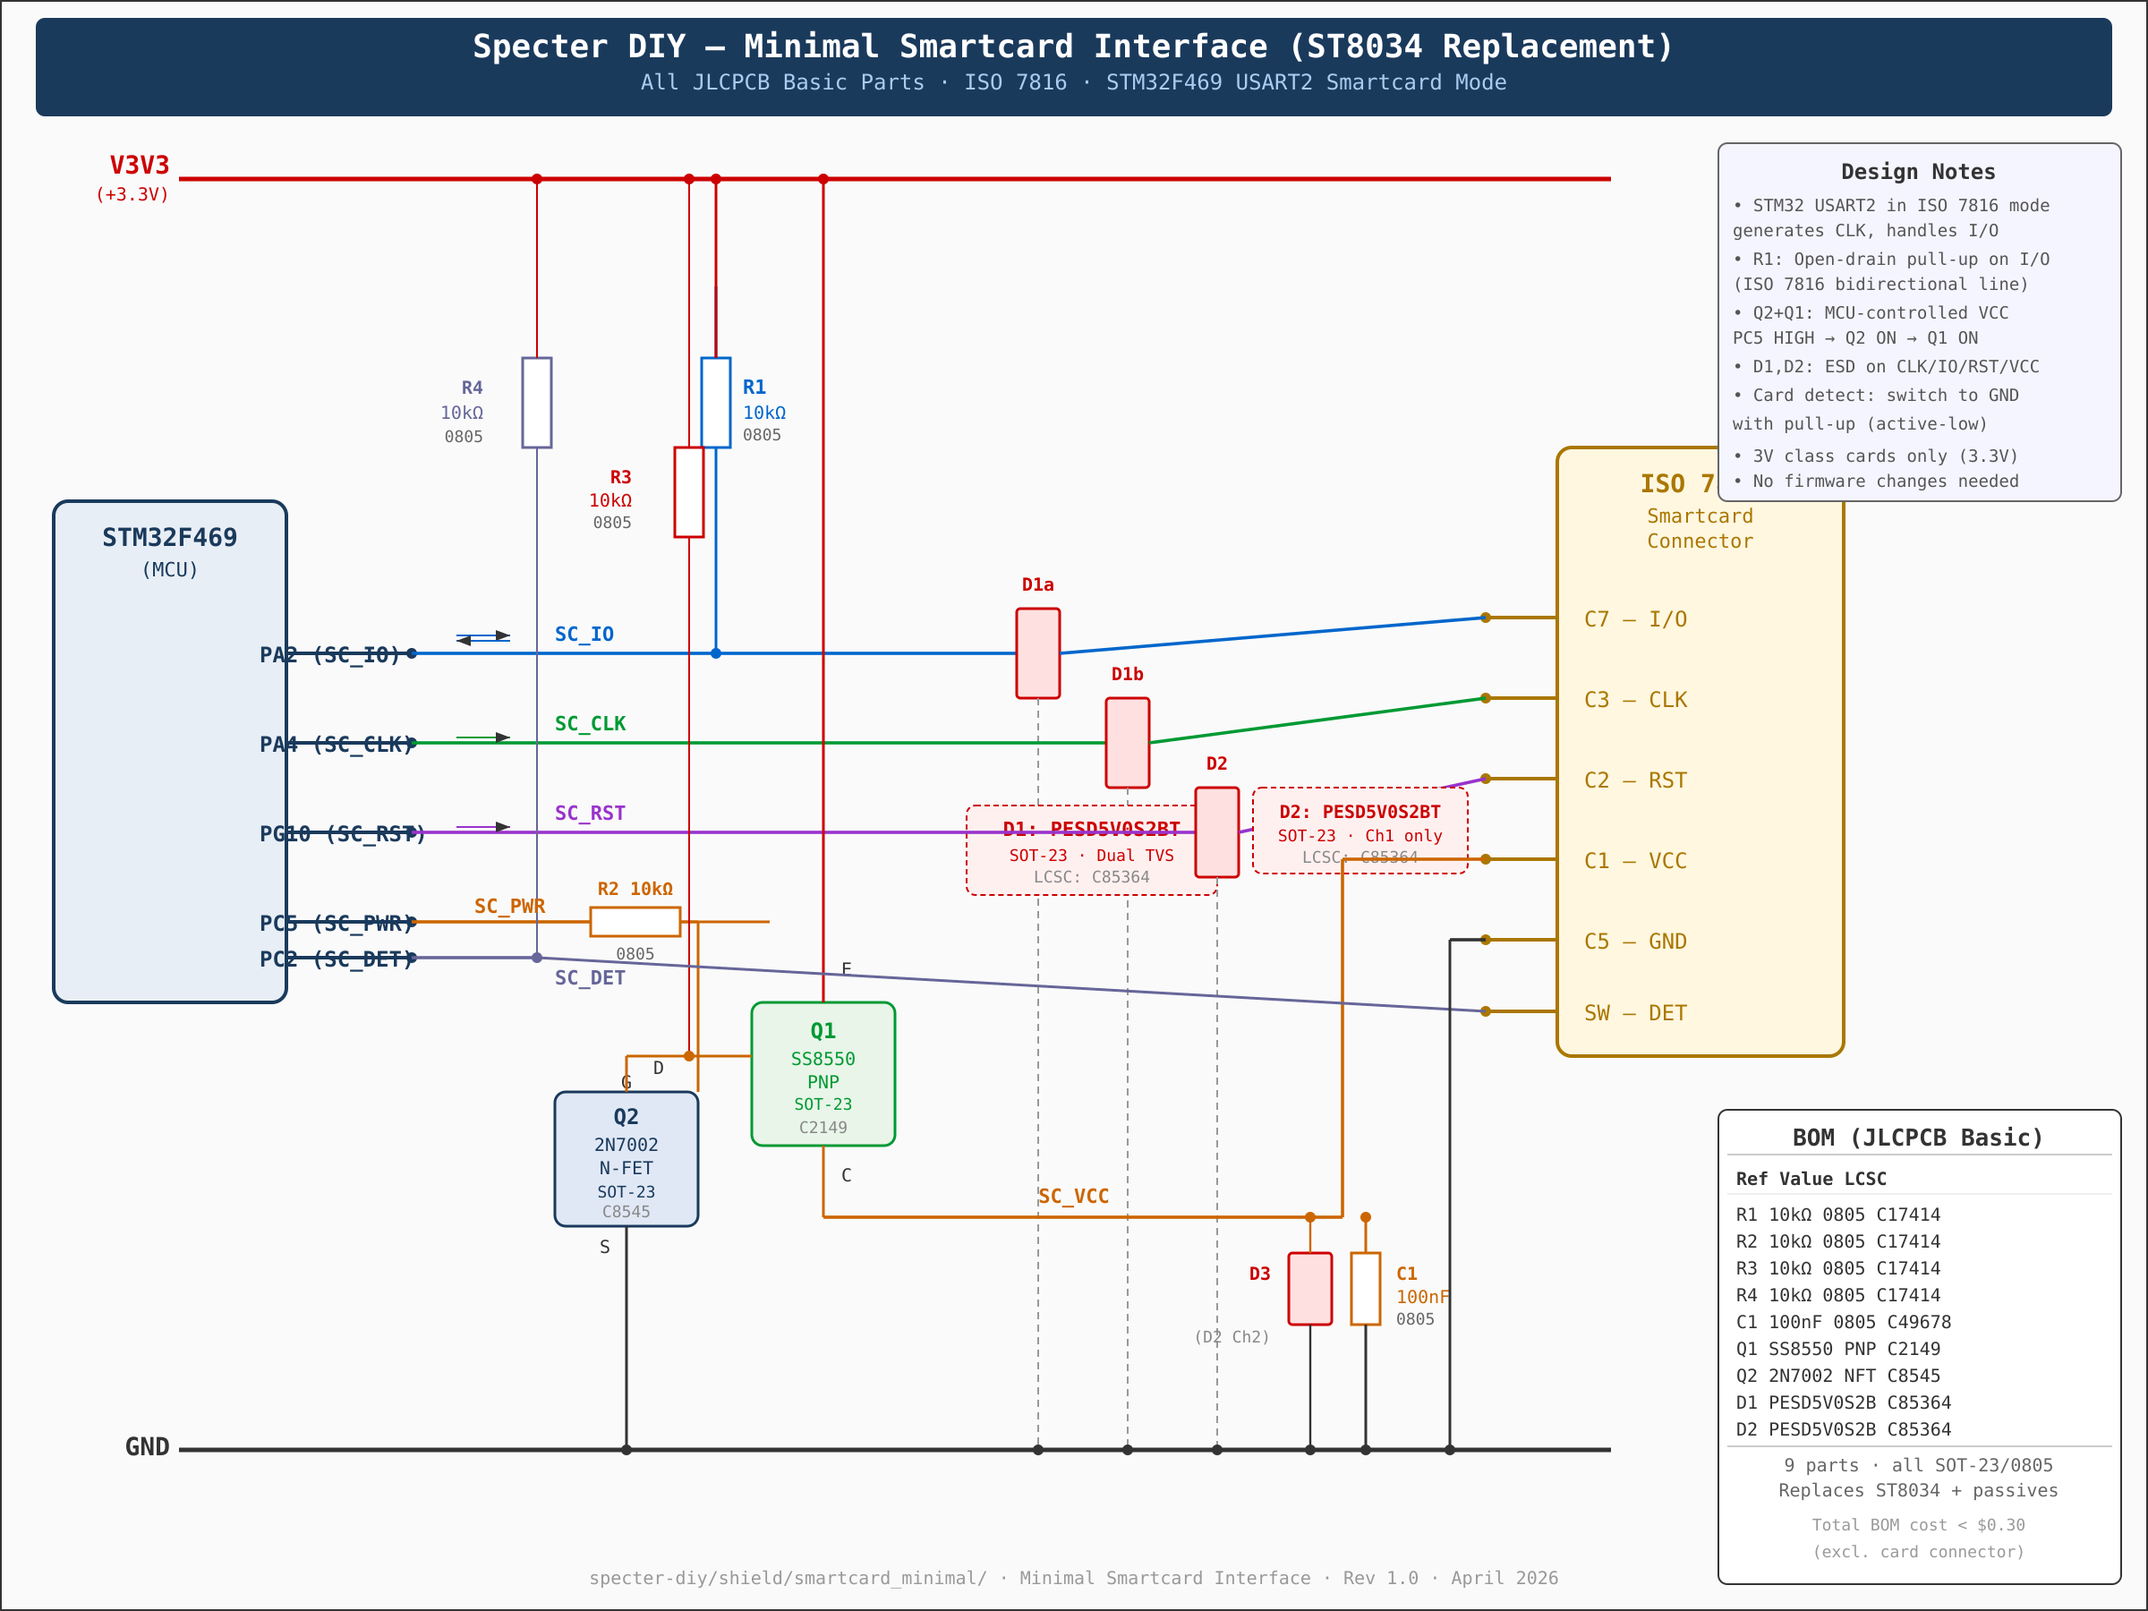
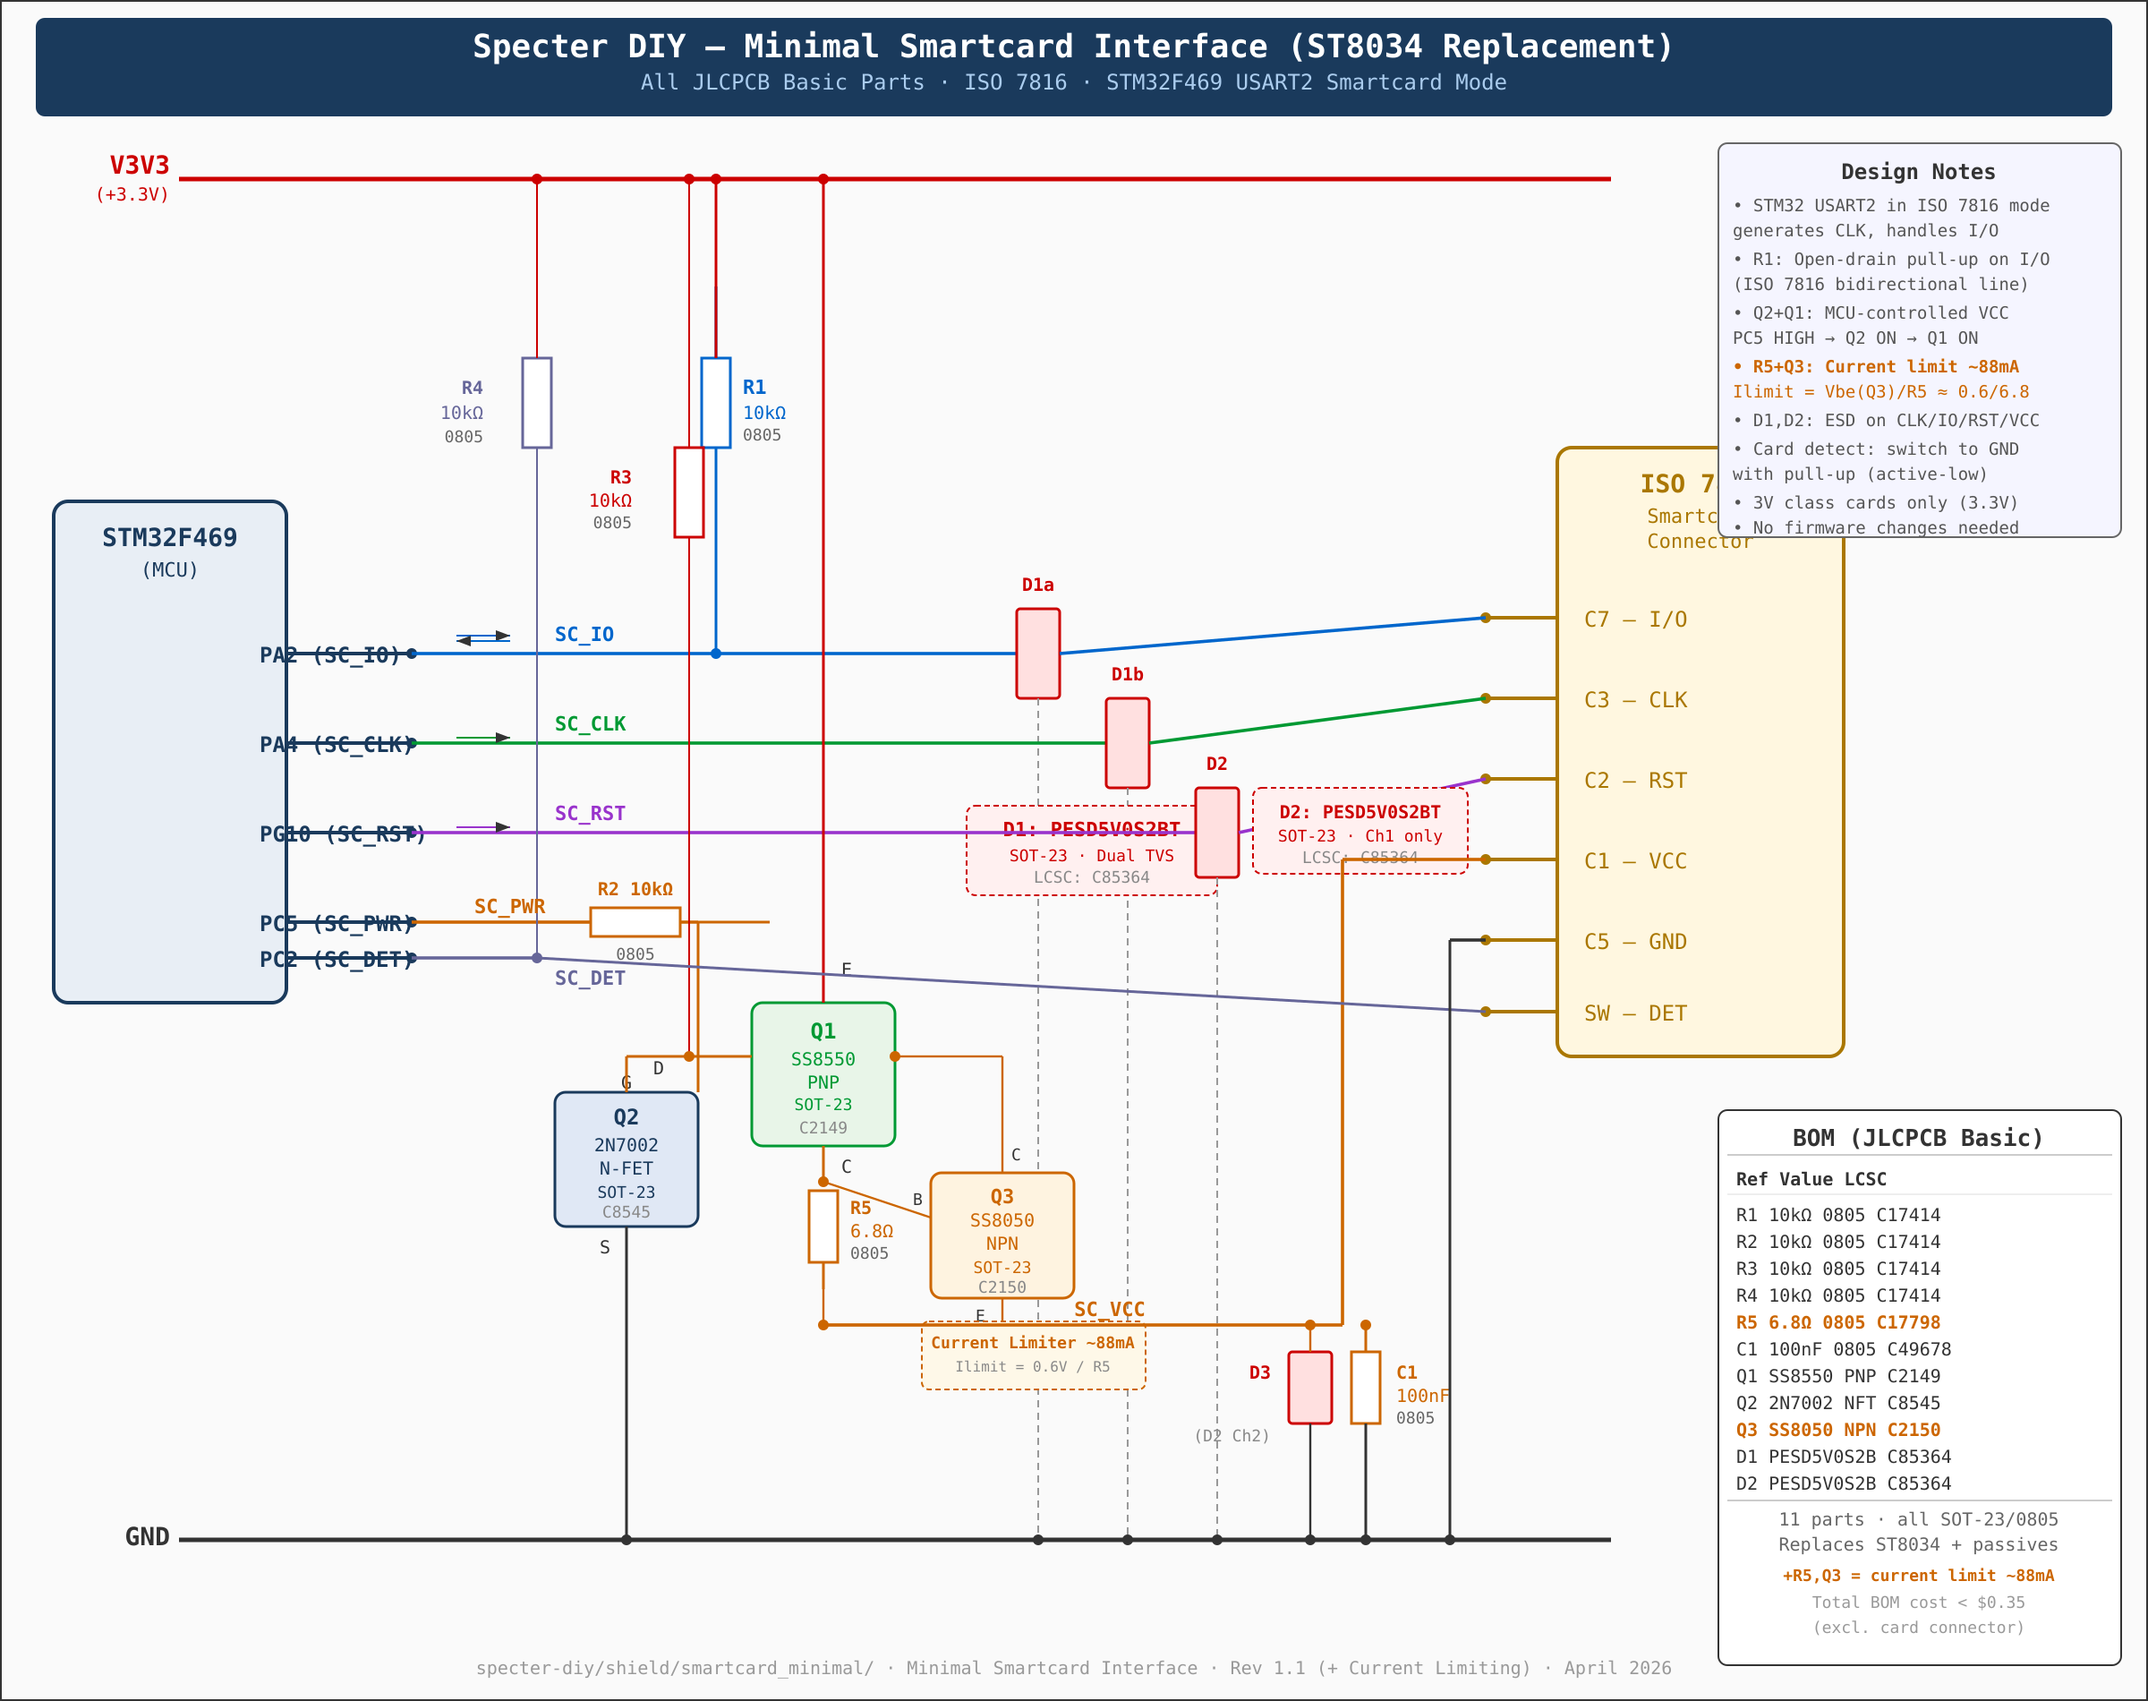
Add current limiting (R5 6.8Ω + Q3 SS8050 NPN) to smartcard VCC
Classic two-transistor current limiter using JLCPCB basic parts:
- R5 (6.8Ω, C17798): sense resistor, sets Ilimit = Vbe/R ≈ 88mA
- Q3 (SS8050 NPN, C2150): shunts Q1 base drive on overcurrent

Matches ISO 7816 Class C 80mA max. Total BOM now 11 parts, < $0.35.
Updated SVG schematic, PNG rendering, and full documentation.

Agent-Logs-Url: https://github.com/3rdIteration/specter-diy/sessions/0c7125b9-5b82-4512-bdc6-2535f76d94ef

diff --git a/shield/smartcard_minimal/README.md b/shield/smartcard_minimal/README.md
@@ -55,14 +55,18 @@ suitable for the smartcard signalling speeds without affecting timing.
 ### Power Switch (VCC Control)
 
 The ST8034's main active function was controlling card VCC. We replace it with a
-simple two-transistor high-side switch:
+two-transistor high-side switch plus a discrete current limiter:
 
 ```
 PC5 (HIGH to enable) → R2 (10kΩ) → Q2 gate (2N7002 N-FET)
                                        │
-Q2 drain ──────────────────────────── Q1 base (SS8550 PNP)
-                                       │
-Q1 emitter ← V3V3                     Q1 collector → SC_VCC → Card C1
+Q2 drain ──────────────────────────── Q1 base (SS8550 PNP) ←── Q3 collector
+                                       │                         │
+Q1 emitter ← V3V3                     Q1 collector               Q3 (SS8050 NPN)
+                                       │                         │
+                                    R5 (6.8Ω sense)           Q3 base ← top of R5
+                                       │                      Q3 emitter → bottom of R5
+                                    SC_VCC → Card C1
                                        │
 R3 (10kΩ) pulls Q1 base to V3V3      C1 (100nF) decouples SC_VCC
 (keeps Q1 OFF when Q2 is OFF)
@@ -70,11 +74,45 @@ R3 (10kΩ) pulls Q1 base to V3V3      C1 (100nF) decouples SC_VCC
 
 **Operation:**
 1. **MCU sets PC5 HIGH** → Q2 (N-FET) turns ON → Q2 drain pulls Q1 base to GND
-2. Q1 (PNP) turns ON → V3V3 flows to SC_VCC → Card is powered
+2. Q1 (PNP) turns ON → V3V3 flows through R5 to SC_VCC → Card is powered
 3. **MCU sets PC5 LOW** → Q2 OFF → R3 pulls Q1 base back to V3V3 → Q1 OFF → Card unpowered
 
 This gives the firmware full control over card activation/deactivation sequencing,
 exactly as it had with the ST8034.
+
+### Current Limiting (R5 + Q3)
+
+A classic two-transistor current limiter protects the card VCC line:
+
+- **R5 (6.8Ω)** is a sense resistor in series between Q1's collector and SC_VCC.
+  As current flows through R5, it develops a voltage drop across it.
+- **Q3 (SS8050 NPN)** has its base connected to the Q1-collector side (top) of
+  R5 and its emitter connected to the SC_VCC side (bottom) of R5. Its collector
+  connects to Q1's base.
+
+**How it works:**
+- When card current is below the limit, the voltage across R5 is less than
+  Q3's Vbe (~0.6V), so Q3 is OFF and has no effect.
+- When card current exceeds the limit, the voltage across R5 exceeds 0.6V,
+  turning Q3 ON. Q3's collector pulls Q1's base toward SC_VCC, reducing Q1's
+  base drive and throttling the current.
+- The circuit self-regulates at the threshold: **I_limit = Vbe(Q3) / R5 ≈
+  0.6V / 6.8Ω ≈ 88mA**
+
+This is well within the ISO 7816 Class C maximum of 80mA (with a small margin
+for Vbe variation). The typical operating current for JavaCards is 30–60mA,
+well below this limit. In a short-circuit condition, the current is hard-clamped
+to ~88mA, protecting both the card and the 3.3V supply rail.
+
+**Tuning:** To adjust the current limit, change R5:
+| R5 Value | Current Limit | Notes |
+|----------|--------------|-------|
+| 4.7Ω     | ~128mA       | More headroom, less protection |
+| 6.8Ω     | ~88mA        | **Default** — matches ISO 7816 Class C |
+| 10Ω      | ~60mA        | Tighter limit, may be too low for some cards |
+| 12Ω      | ~50mA        | Very conservative |
+
+All of these are JLCPCB basic 0805 resistors.
 
 ### Card Detection
 
@@ -92,15 +130,17 @@ All components are from the JLCPCB Basic Parts library — no extended part fees
 | R2  | Resistor  | 10kΩ  | 0805    | C17414 | Q2 gate resistor |
 | R3  | Resistor  | 10kΩ  | 0805    | C17414 | Q1 base pull-up (keeps VCC off at startup) |
 | R4  | Resistor  | 10kΩ  | 0805    | C17414 | Card detect pull-up |
+| R5  | Resistor  | 6.8Ω  | 0805    | C17798 | Current sense resistor (sets ~88mA limit) |
 | C1  | Capacitor | 100nF | 0805    | C49678 | SC_VCC decoupling |
 | Q1  | PNP BJT   | SS8550 | SOT-23 | C2149  | High-side VCC switch |
 | Q2  | N-FET     | 2N7002 | SOT-23 | C8545  | Inverts SC_PWR to drive Q1 |
+| Q3  | NPN BJT   | SS8050 | SOT-23 | C2150  | Current sense — shunts Q1 base on overcurrent |
 | D1  | Dual TVS  | PESD5V0S2BT | SOT-23 | C85364 | ESD on SC_IO + SC_CLK |
 | D2  | Dual TVS  | PESD5V0S2BT | SOT-23 | C85364 | ESD on SC_RST + SC_VCC |
 
-**Total: 9 components (4× 0805, 2× SOT-23 transistors, 2× SOT-23 TVS, 1× 0805 cap)**
+**Total: 11 components (5× 0805, 3× SOT-23 transistors, 2× SOT-23 TVS, 1× 0805 cap)**
 
-Estimated BOM cost: **< $0.30** (excluding card connector)
+Estimated BOM cost: **< $0.35** (excluding card connector)
 
 ## What This Replaces
 
@@ -109,7 +149,7 @@ The ST8034 (LCSC C2674058) is an 8-pin IC that provides:
 - ✅ VCC switching → **replaced by Q1 + Q2**
 - ✅ Level shifting → **not needed** (3.3V MCU → 3V class card, within spec)
 - ✅ Voltage class negotiation → **not needed** (fixed 3.3V, Class C cards)
-- ✅ Short-circuit protection → **Q1 current limited by PNP beta**
+- ✅ Short-circuit protection → **R5 + Q3 current limiter (~88mA)**
 - ❌ Automatic activation sequencing → **handled by firmware via `uscard` driver**
 
 ## Limitations
@@ -117,11 +157,17 @@ The ST8034 (LCSC C2674058) is an 8-pin IC that provides:
 1. **3V class cards only** — Cards requiring 1.8V or 5V operation will not work.
    Most modern JavaCards (including those used with Specter) support 3V class.
 
-2. **No overcurrent protection** — The SS8550 limits current by its beta
-   (~100–200), providing a soft limit around 100–300mA. For a more robust
-   design, add a 100mA PTC fuse (e.g., LCSC C369152) in series with SC_VCC.
+2. **Current limit has ~±15% tolerance** — The 88mA limit depends on Q3's Vbe
+   (which varies with temperature, typically 0.55V–0.65V). In practice this
+   means the actual limit is roughly 80–95mA, which safely brackets the ISO
+   7816 Class C 80mA spec.
 
-3. **3.3V is at the upper edge of Class C spec** (2.7V–3.3V) — This is within
+3. **~0.6V voltage drop under max load** — At 88mA through R5, the drop is
+   ~0.6V, giving SC_VCC ≈ 2.7V. This is at the lower edge of the Class C range
+   (2.7V–3.3V). At typical operating current (30–60mA), the drop is only
+   0.2–0.4V, giving SC_VCC ≈ 2.9–3.1V which is comfortable.
+
+4. **3.3V is at the upper edge of Class C spec** (2.7V–3.3V) — This is within
    spec and works in practice with all tested JavaCards.
 
 ## Firmware Reference
